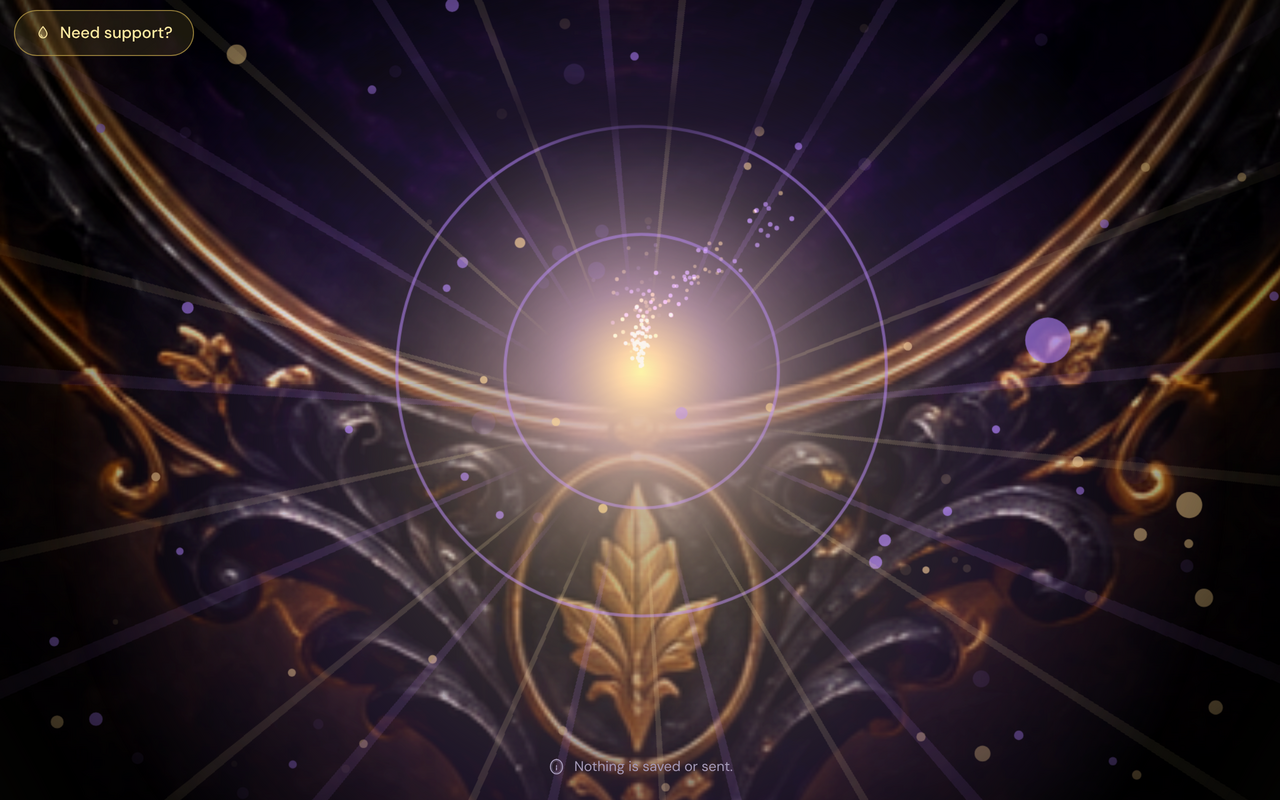
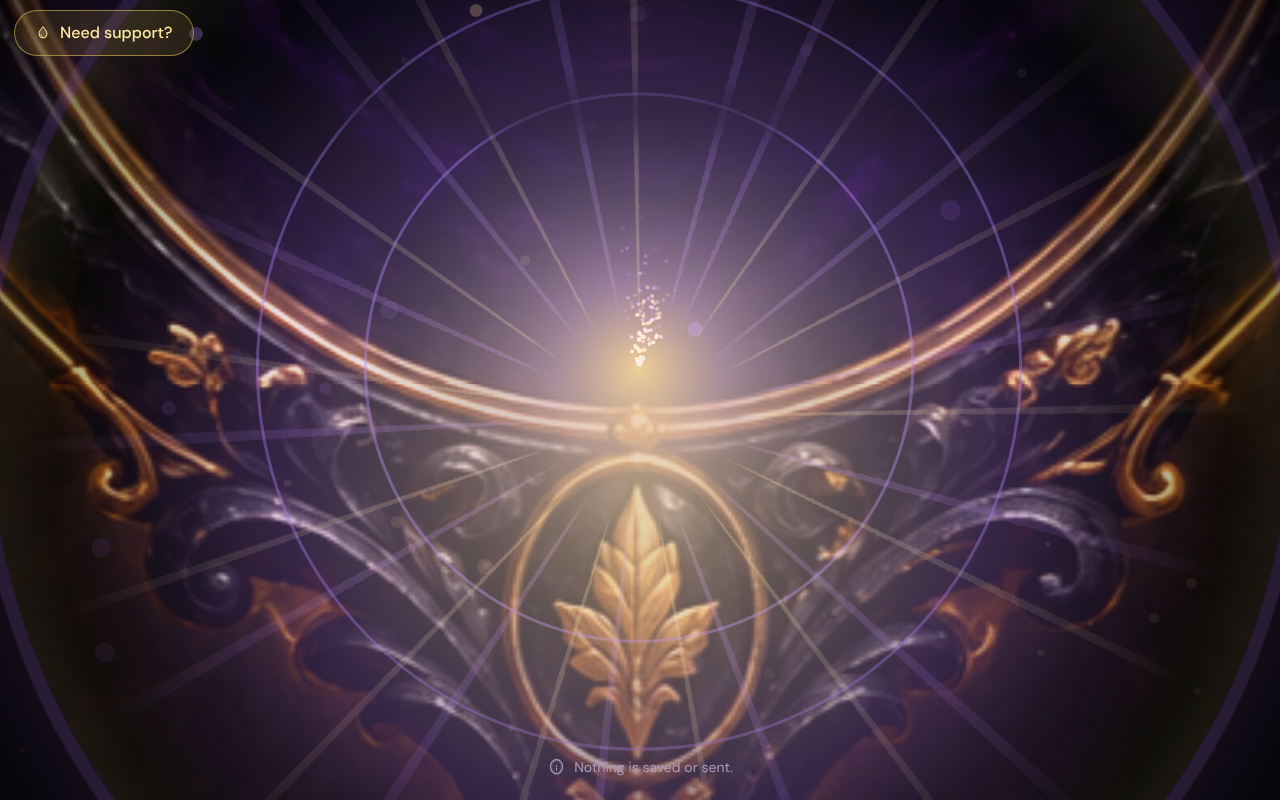
Retake screenshots and walkthrough with the gentler words
New captures of the live app for every promo image, a rebuilt showcase
and walkthrough GIF, and a new support screenshot that shows only the
kind words. The README support section returns as Gentle Words, Any Hour.

diff --git a/README.md b/README.md
@@ -248,6 +248,18 @@ A small ritual for adults still carrying what childhood handed them. There are n
   </tr>
 </table>
 
+<h3>Gentle Words, Any Hour</h3>
+
+<table>
+  <tr>
+    <td>
+      <a href="https://github.com/redefiningvicky/The-Looking-Glass/blob/main/looking-glass-promo/09-support.png">
+        <img src="looking-glass-promo/09-support.png" alt="Need support? opens a few kind words, one tap away from every screen" width="100%" />
+      </a>
+    </td>
+  </tr>
+</table>
+
 
 <hr>
 

diff --git a/looking-glass-promo/MEDIA-INDEX.md b/looking-glass-promo/MEDIA-INDEX.md
@@ -10,5 +10,6 @@
 | `04-burn.png` | The words lifting and burning into the flame. |
 | `07-finale-c.png` | The fifth release: the eruption of violet and gold. |
 | `08-after.png` | Back outside, the candle closer than it was. |
+| `09-support.png` | Need support: a few kind words, one tap away from every screen. |
 
 Every capture is of the live app. Nothing written in them was kept: the app stores no record of any of it.
